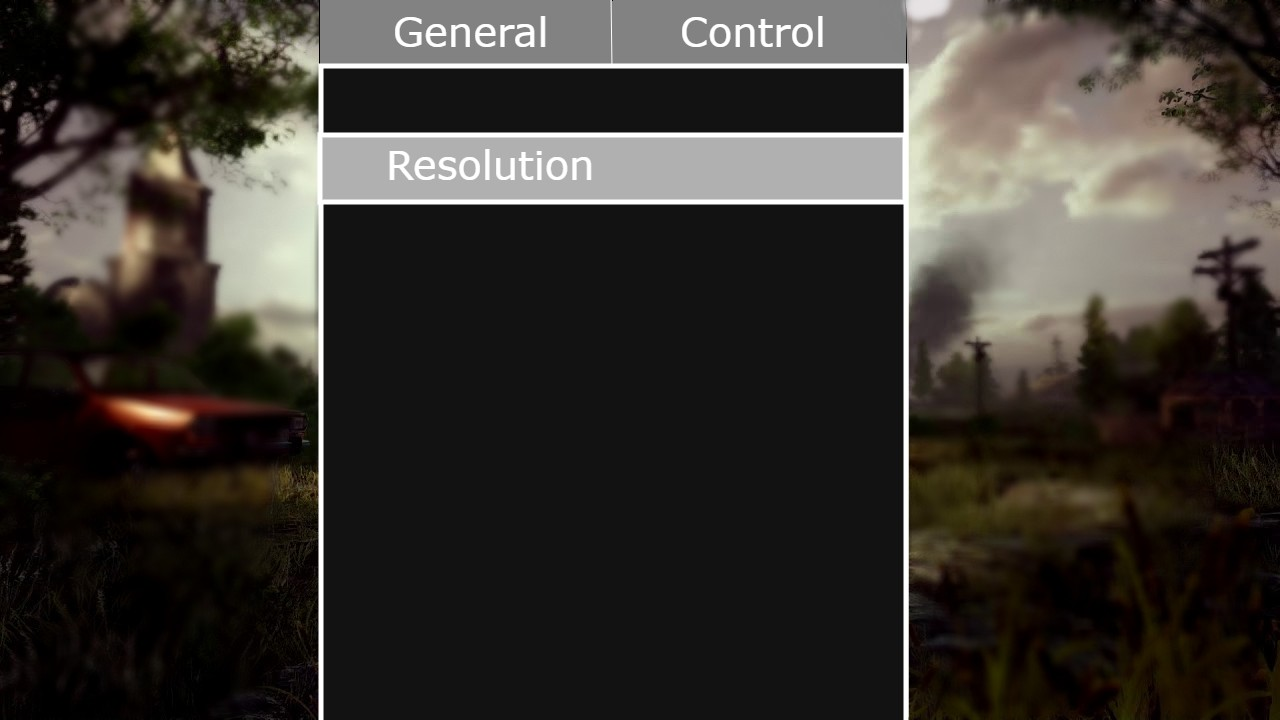
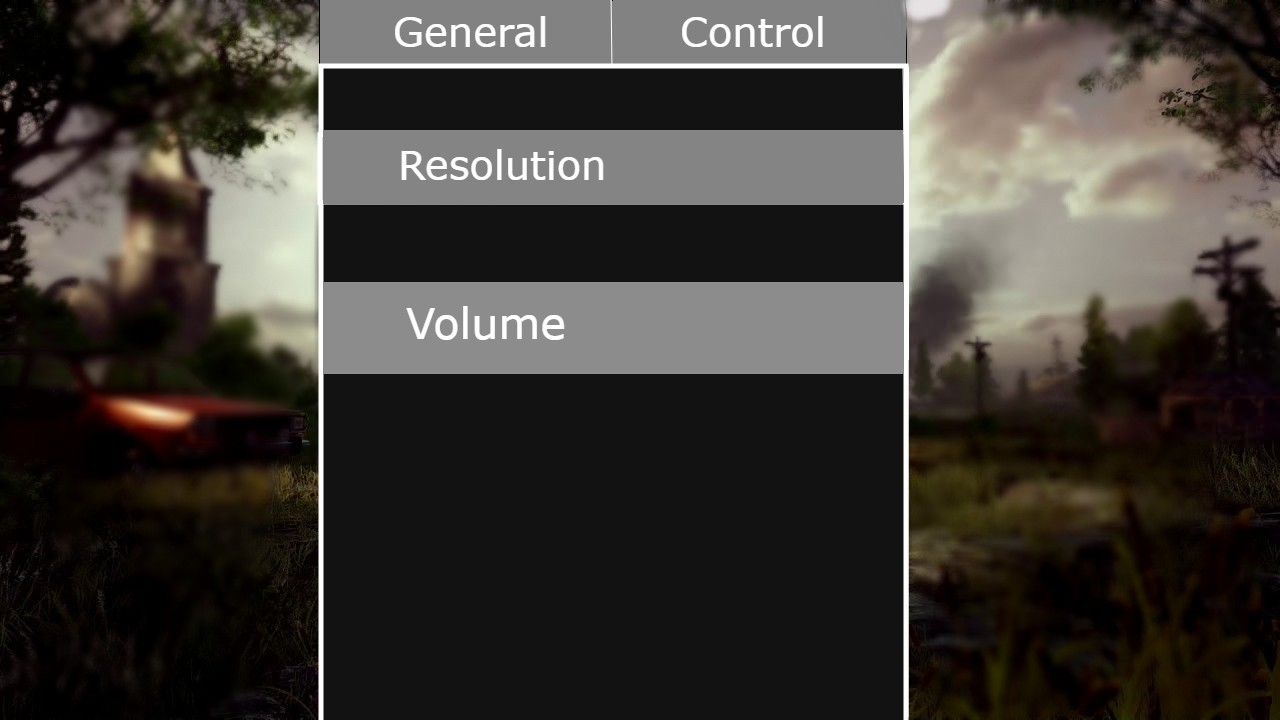
25/10

Changed region(s): [[0.25, 0.3667, 0.7188, 0.5194], [0.25, 0.1833, 0.7188, 0.3056]]

diff --git a/main.py b/main.py
@@ -37,7 +37,8 @@ setting = False
 set_up = False
 music = True
 choose_map = False
-
+general_setting = True
+control_setting = False
 
 screen_scroll = 0
 bg_scroll = 0
@@ -89,6 +90,10 @@ items_box = {
     'Ammo'  : ammo_box_img
 }
 # background
+control_setting_img = pygame.image.load("img/background/control_setting.jpg")
+general_img = pygame.image.load("img/icons/general.png")
+control_img = pygame.image.load("img/icons/control.png")
+close_img = pygame.image.load("img/icons/close.png")
 set_up_img = pygame.image.load("img/background/setting.jpg")
 player_img = pygame.image.load("img/player/idle/0.png")
 player_img = pygame.transform.scale(player_img,(player_img.get_width()*10,player_img.get_height()*10))
@@ -528,6 +533,9 @@ exit_btn = Button(exit_img,510,430,1)
 resume_btn = Button(resume_img,510,160,1)
 setting_btn = Button(setting_img,510,295,1)
 choose_map = Button(trungbui,40,500,1)
+close_btn = Button(close_img,510,620,1)
+general_btn = Button(general_img,353,6,1)
+control_btn = Button (control_img,620,10,1)
 # speaker_btn = Button(speaker_img,(40,20))
 # mute_btn = Button(mute_img,(40,20))
 
@@ -627,6 +635,9 @@ class hearth_bar():
         pygame.draw.rect(screen, RED, pygame.Rect(self.pos_x, self.pos_y, 120,10))
         pygame.draw.rect(screen, GREEN, pygame.Rect(self.pos_x,self.pos_y,120*(player1.health/player1.max_health),10))
 list1 = OptionBox(
+    700, 310, 160, 40, (150, 150, 150), (100, 200, 255), pygame.font.SysFont(None, 30), 
+    ["100%", "75%", "50%","25%","0%"])
+list2 = OptionBox(
     700, 148, 160, 40, (150, 150, 150), (100, 200, 255), pygame.font.SysFont(None, 30), 
     ["1280x720", "800x680", "1920x1280"])
 Black = (0,0,0)
@@ -635,6 +646,7 @@ hearth_bar = hearth_bar(30,8)
 map1=False
 while run:
     if start_game==False:
+
         start_screen()
         # screen.blit(all_diamon,(diamon_display_img.get_width()+4,4))
         if start_btn.draw(screen):
@@ -644,6 +656,9 @@ while run:
         # if exit_btn.draw(screen):
         #     run = False
         if setting == True:
+            event_list = pygame.event.get()
+            selected_option = list1.update(event_list)
+            selected_option = list2.update(event_list)
             if set_up == False:
                 screen.blit(background_settings,(0,0))
                 if exit_btn.draw(screen):
@@ -654,14 +669,23 @@ while run:
                     set_up = True
             else:
                 screen.blit(set_up_img, (0,0))
+                list2.draw(screen)
                 list1.draw(screen)
-                if list1.selected == 0:
-                    width = 800
-                    height = 640
-                    pygame.transform.scale(screen,(screen.get_width()*1.6, int(screen.get_height()*1.125)))
-                if list1.selected == 1:
-                    width = 1280
-                    height = 720
+                if close_btn.draw(screen):
+                    set_up = False
+                if general_btn.draw(screen):
+                    general_setting = True
+                    control_setting = False
+                if control_btn.draw(screen):
+                    control_setting = True
+                    general_setting = False
+                if control_setting == True:
+
+                    screen.blit(control_setting_img,(0,0))
+                    if close_btn.draw(screen):
+                        set_up = False
+
+
 
 
         if map1 == True:
@@ -784,7 +808,6 @@ while run:
             #     setting = False
     clock.tick(60)
     pygame.display.update()
-    event_list = pygame.event.get()
-    selected_option = list1.update(event_list)    
+
 pygame.quit()
 
